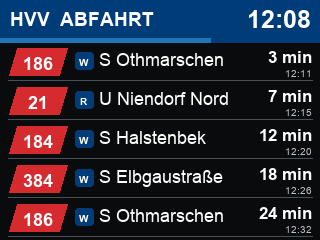
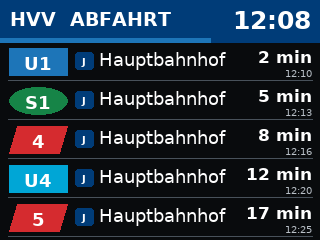
docs: refresh display preview with Jungfernstieg example
All required CI checks passed, including Browser smoke and visual regression and CodeQL.

diff --git a/README.md b/README.md
@@ -9,10 +9,14 @@ Eine kompakte Abfahrtsanzeige für einen Raspberry Pi Zero 2 W oder ein
 kompatibles Raspberry-Pi-Modell mit 40-Pin-GPIO und ein
 2,2-Zoll-ILI9341-SPI-Display. Sie läuft ohne grafische Oberfläche auf
 Raspberry Pi OS Lite, lädt alle 15 Sekunden aktuelle Geofox-Prognosen, filtert
-die gewünschten Busverbindungen und sortiert sie haltestellenübergreifend nach
+die gewünschten Verbindungen und sortiert sie haltestellenübergreifend nach
 der erwarteten Abfahrtszeit.
 
-![Beispielansicht der HVV-Abfahrtsanzeige](docs/hvv-anzeiger-preview.png)
+![Beispielhafte Abfahrten ab Jungfernstieg Richtung Hauptbahnhof mit Bus, U-Bahn und S-Bahn](docs/hvv-anzeiger-preview.png)
+
+Das Preview zeigt beispielhafte Abfahrten ab Jungfernstieg in Richtung
+Hauptbahnhof. Bus, U-Bahn und S-Bahn werden dabei mit ihren unterschiedlichen
+Linienfarben und -formen dargestellt; die angezeigten Zeiten sind illustrativ.
 
 ## Praxisbeispiel
 
